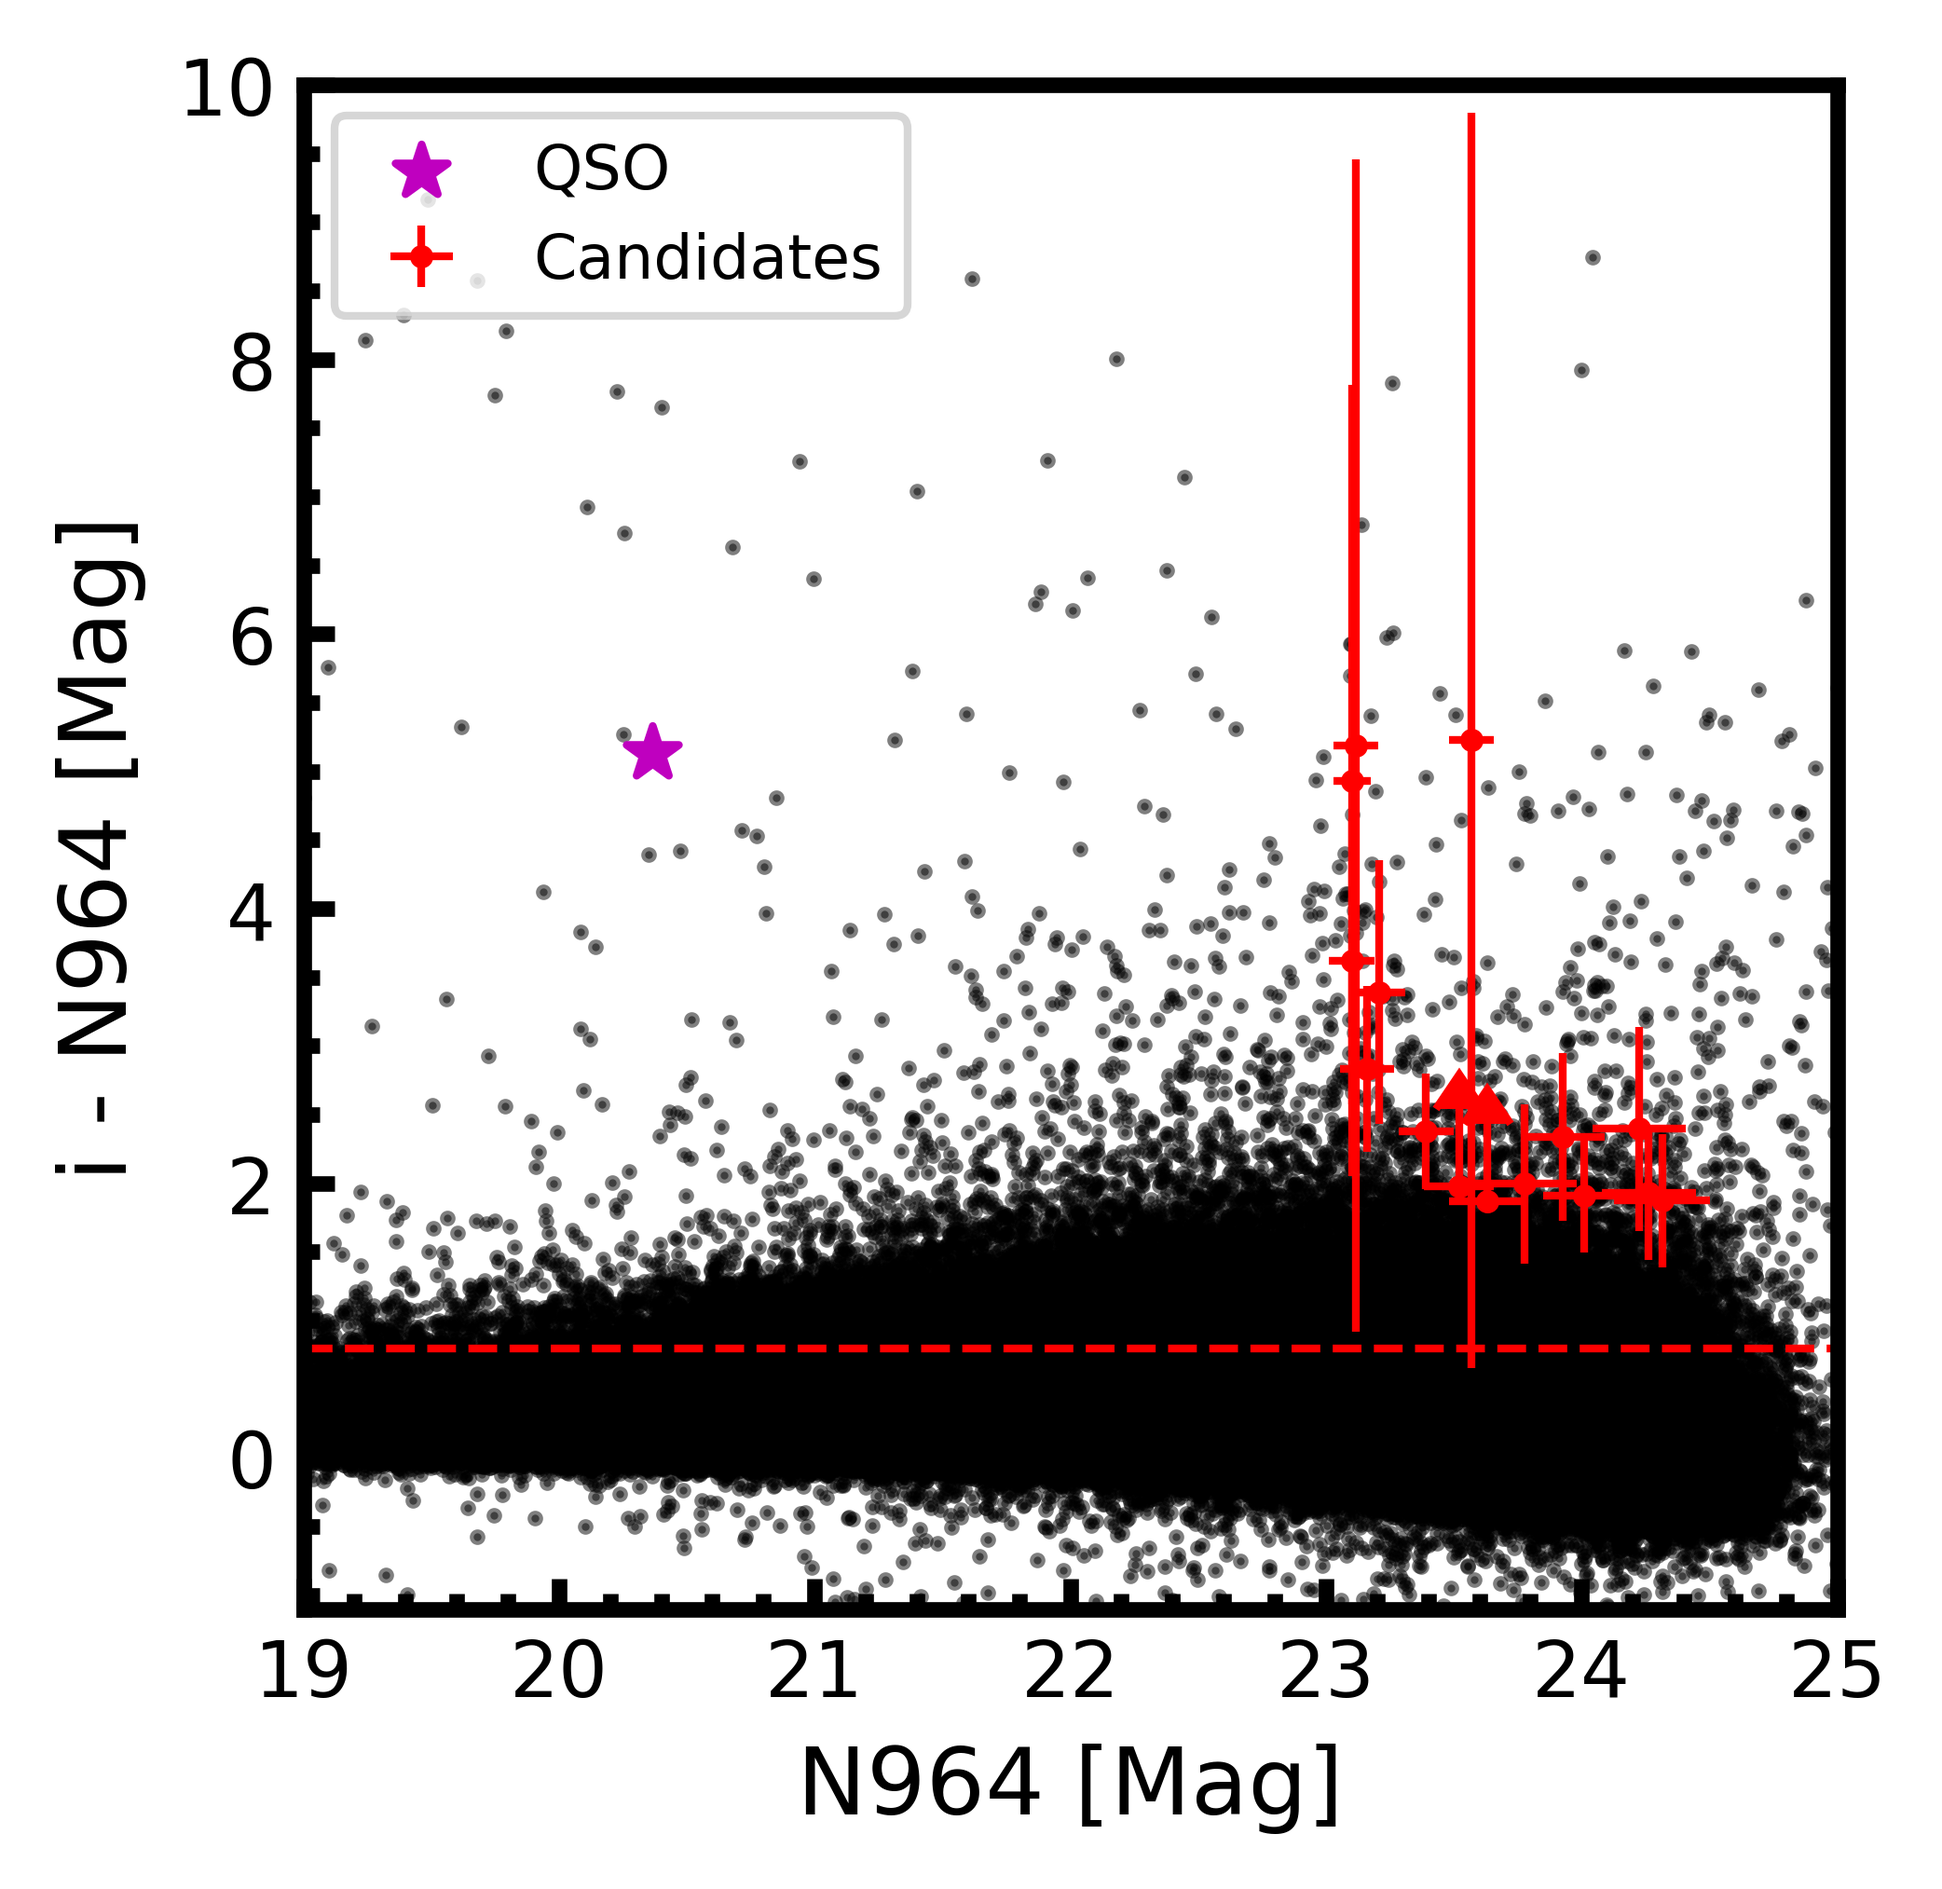
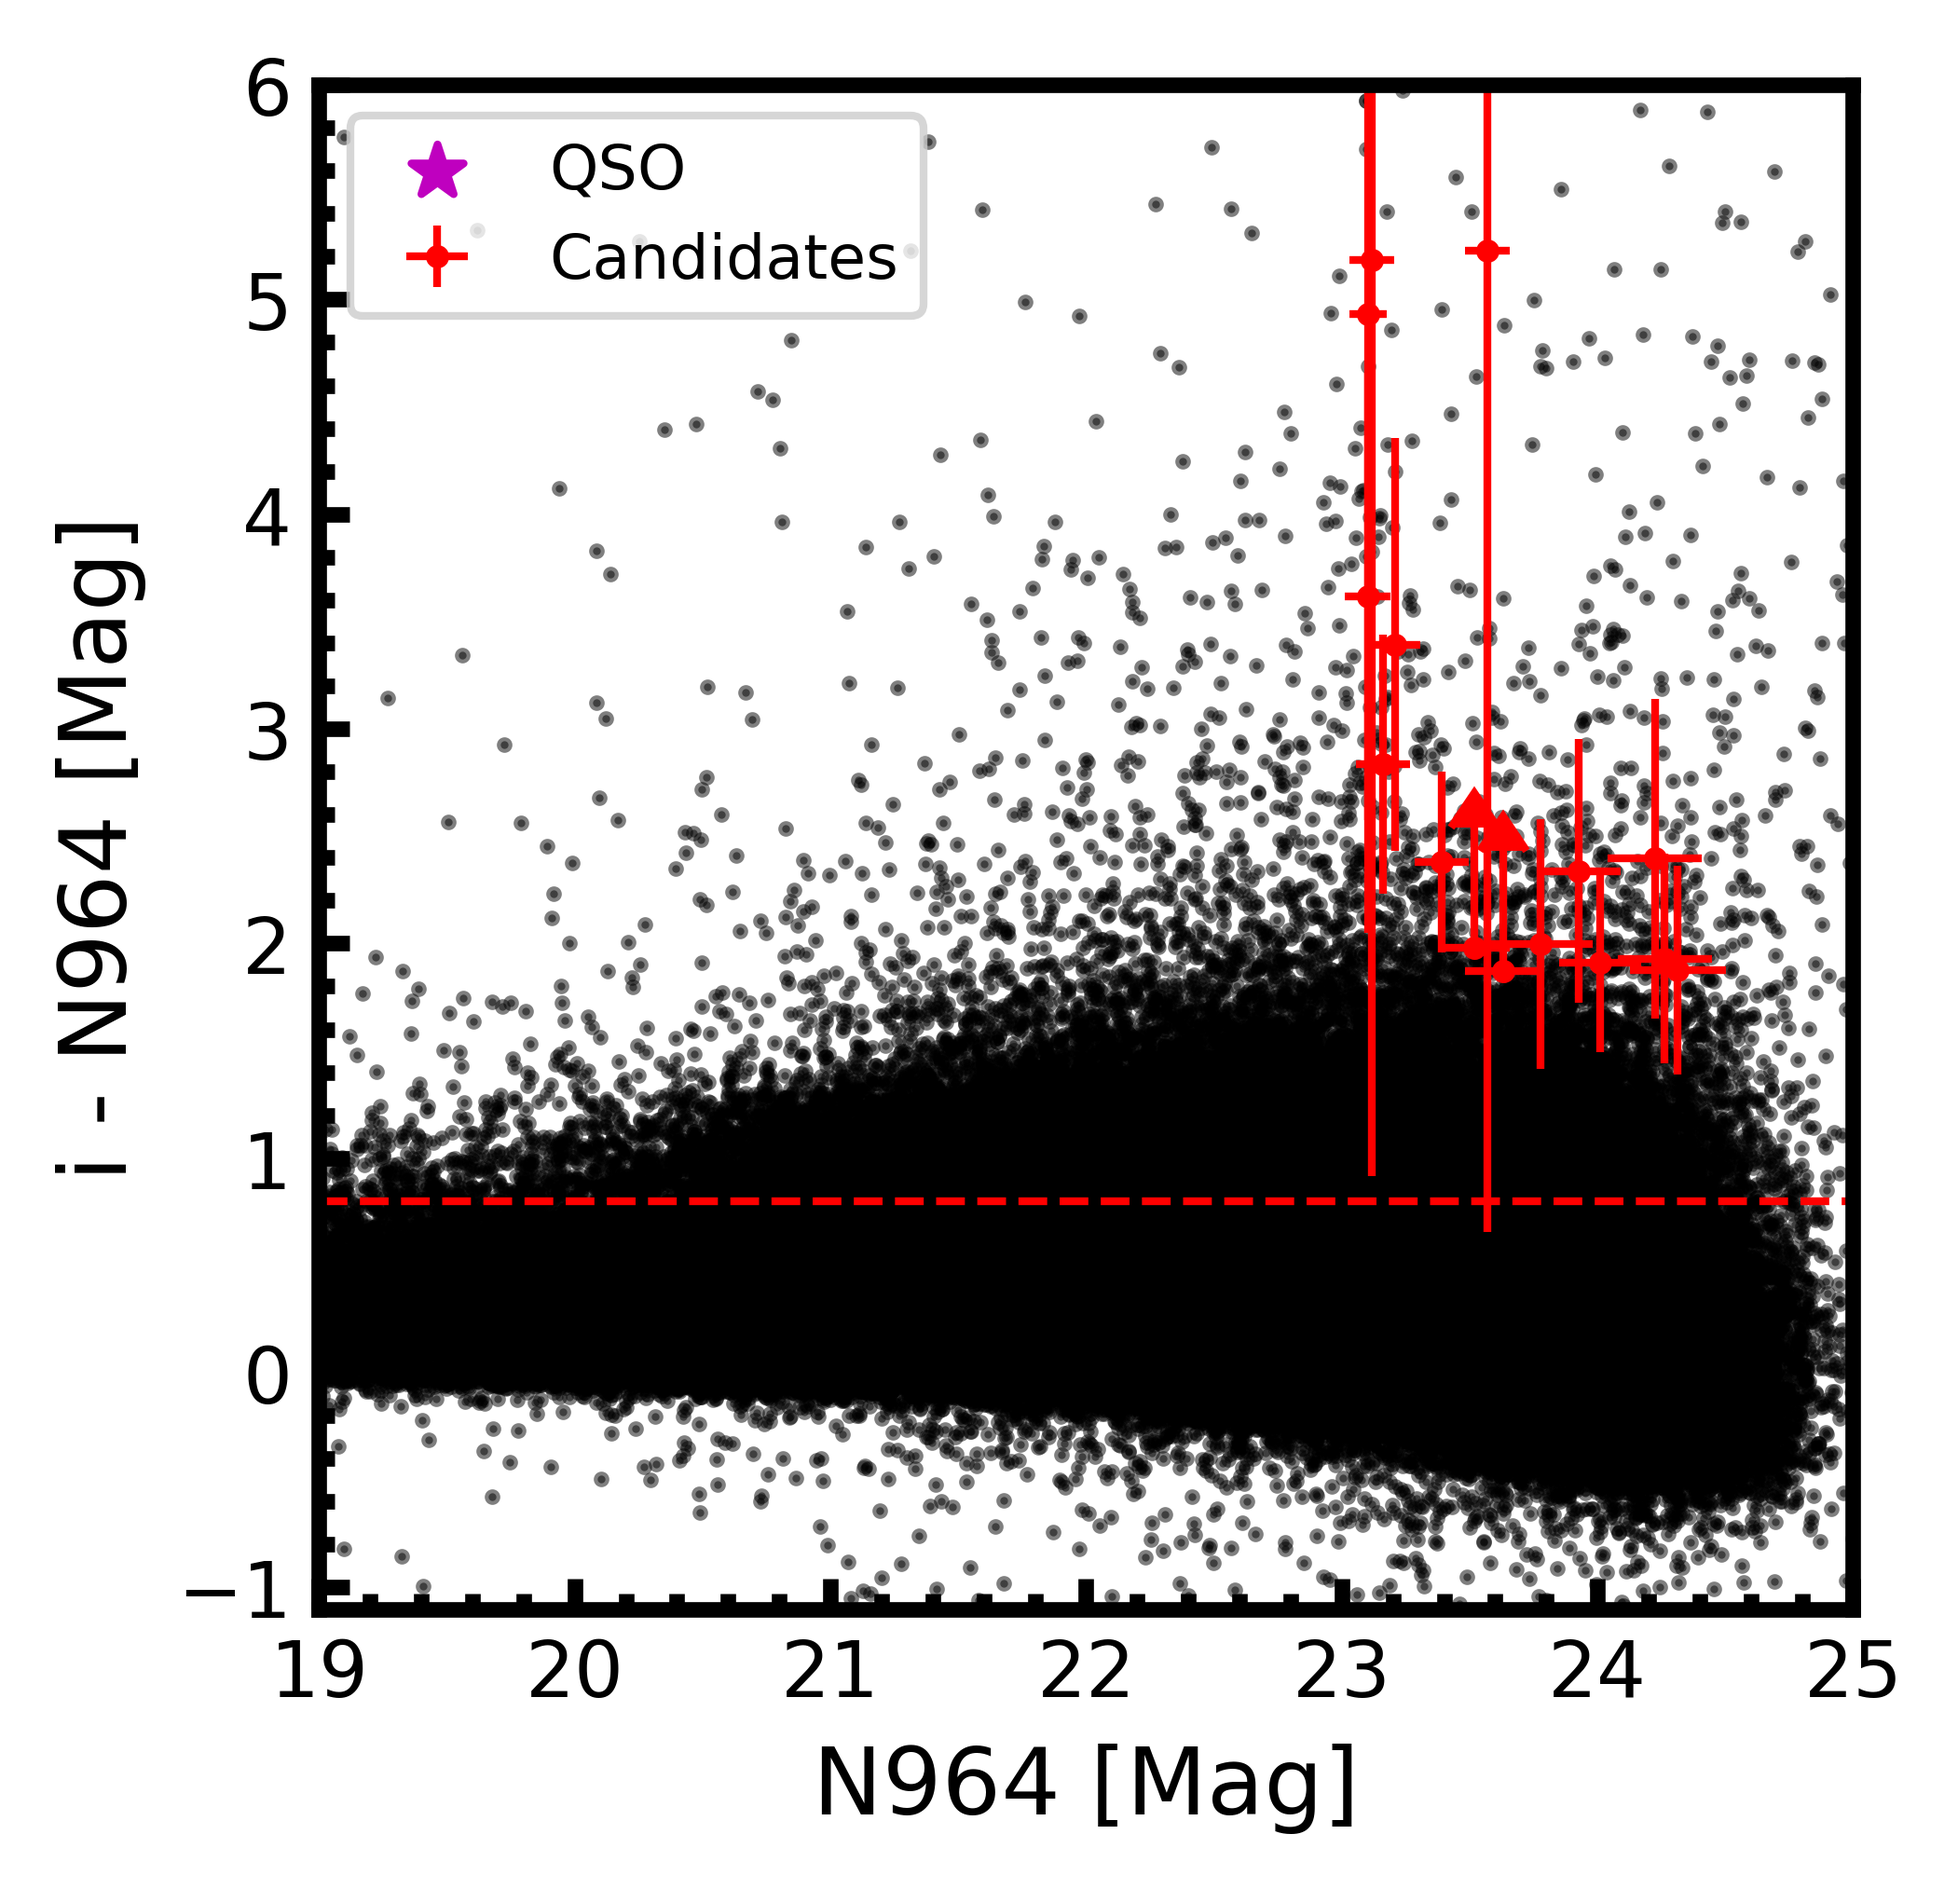
refactored the Hu et al plot

diff --git a/hu_2019_plot.py b/hu_2019_plot.py
@@ -1,12 +1,12 @@
 """Python script to display the DECAM filters."""
 
+from dataclasses import dataclass
 import pylab as plt
 import numpy as np
 import matplotlib as mpl
 from astropy.coordinates import SkyCoord
 import astropy.units as u
 import plotting
-import postage_stamps as ps
 
 mpl.rcParams.update({'font.size': 2})
 plt.rcParams['font.size'] = 12
@@ -15,126 +15,150 @@ mpl.rc('xtick', labelsize=10)
 mpl.rc('ytick', labelsize=10)
 
 
-def read_in_cats(file_name: str):
+def read_in_cats(filt: str):
     """read in the test cats for DECCAM"""
-    ra, dec, mag, mag_err = np.loadtxt(file_name, unpack=True, usecols=(0, 1, 4, 5))
+    r_a, dec, mag, mag_err = np.loadtxt(FILTERS[filt].file_name, unpack=True, usecols=(0, 1, 4, 5))
     non_detections = np.where(mag == 99)[0]
     detections = np.where(mag != 99)[0]
-    
-    mag[detections] = mag[detections] + MAG_ZPTS[FILES[file_name]]
+
+    mag[detections] = mag[detections] + FILTERS[filt].zpt
     mag_err[non_detections] = (2.5/np.log(10)) / 2 #factor of two is just for aesthitics
-    
-    return ra, dec , mag, mag_err
 
-MAG_ZPTS = {
-    'z': 30.538,
-    'n964': 28.97,
-    'i': 30.870,
-}
-
-LIMITING_MAGS = {
-    '../correct_stacks/N964/z.cat': 25.5,
-    '../correct_stacks/N964/i.cat': 25.5,
-    '../correct_stacks/N964/n964.cat': 25.0
-}
-
-FILES = {
-    '../correct_stacks/N964/z.cat': 'z',
-    '../correct_stacks/N964/n964.cat': 'n964',
-    '../correct_stacks/N964/i.cat': 'i'
-}
-
-if __name__ == '__main__':
-    Z_FILE = '../correct_stacks/N964/z.cat'
-    N_FILE = '../correct_stacks/N964/n964.cat'
-    I_FILE = '../correct_stacks/N964/i.cat'
-    RA_QSO = (23 + (48/60) + (33.34/3600)) * (360/24)
-    DEC_QSO = (30 + (54/60) + (10.0/3600)) * -1
-    CANDIDATE_FILE = 'candidates.txt'
-
-    candidates_ra, candidates_dec = np.loadtxt(CANDIDATE_FILE, usecols=(1,2), unpack=True)
-
-    i_ra, i_dec, i_mag, i_mag_err = read_in_cats(I_FILE)
-    z_ra, z_dec, z_mag, z_mag_err = read_in_cats(Z_FILE)
-    n_ra, n_dec, n_mag, n_mag_err = read_in_cats(N_FILE)
-
-    catalog = SkyCoord(ra = n_ra*u.deg, dec = n_dec*u.deg)
-    c = SkyCoord(ra = RA_QSO*u.deg, dec = DEC_QSO*u.deg)
-    idx, d2d, _ = c.match_to_catalog_sky(catalog)
-
-    c_candidates = SkyCoord(ra = candidates_ra*u.deg, dec = candidates_dec*u.deg)
-    idx_candidates, d2d_candidates, _ = c_candidates.match_to_catalog_sky(catalog)
-
-    non_detections_z = np.where(z_mag[idx_candidates] == 99)[0]
-    non_detections_i = np.where(i_mag[idx_candidates] == 99)[0]
+    return r_a, dec , mag, mag_err
 
 
-    # Making the Hu plots
-    plotting.start_plot('N964 [Mag]', 'z - N964 [Mag]')
-    plt.scatter(n_mag, z_mag - n_mag, s=1, color='k', alpha=0.5)
-    plt.scatter(n_mag[idx], z_mag[idx] - n_mag[idx], marker='*', s=50, color='m', label='QSO')
-    plt.errorbar(n_mag[idx_candidates], z_mag[idx_candidates] - n_mag[idx_candidates],
-                  color='r', xerr=n_mag_err[idx_candidates],
-                yerr=np.hypot(n_mag_err[idx_candidates], z_mag_err[idx_candidates]), fmt='o', ms=2, elinewidth=1, label = 'Candidates')
+@dataclass
+class Filter:
+    """Stores the filter information."""
+    zpt: float
+    limiting_mag: float
+    file_name: str
+    hu_snr_limit: float
 
-    plt.errorbar(n_mag[idx_candidates][non_detections_z], LIMITING_MAGS[Z_FILE] - n_mag[idx_candidates][non_detections_z],
-                  color='r', xerr=n_mag_err[idx_candidates][non_detections_z],
-                yerr=np.hypot(n_mag_err[idx_candidates][non_detections_z], z_mag_err[idx_candidates][non_detections_z]),
-                fmt='o', ms=2, elinewidth=1, lolims=True)
+
+@dataclass
+class Quasar:
+    """All the magnitude information"""
+    n964_mag: float
+    z_mag: float
+    i_mag: float
+
+    def color(self, filt: str):
+        """Determines the color depending on the filter."""
+        if filt == 'i':
+            color = self.i_mag - self.n964_mag
+        elif filt == 'z':
+            color = self.z_mag - self.n964_mag
+        else:
+            raise ValueError('Filter must be either "z" or "i".')
+        return color
+
+
+@dataclass
+class ErrorPlotValues:
+    """x,y,xerr,yerr values for a errobar plot"""
+    x_data: np.array
+    y_data: np.array
+    x_err: np.array
+    y_err: np.array
+
+
+@dataclass
+class MagValues:
+    """Storing all the information for the hu plot"""
+    narrow_mag: np.array
+    broad_mag: np.array
+    narrow_err: np.array
+    broad_err: np.array
+    idx_gals: np.array
+    non_detections: np.array
+
+    @property
+    def color(self):
+        """Calculates the color"""
+        return self.broad_mag - self.narrow_mag
+
+    @property
+    def color_err(self):
+        """Calculates the error of the color"""
+        return np.hypot(self.narrow_err, self.broad_err)
+
+    @property
+    def gals(self):
+        """Returns a ErrorPlotValues object for all the candidates"""
+        return ErrorPlotValues(self.narrow_mag[self.idx_gals], self.color[self.idx_gals],
+                               self.narrow_err[self.idx_gals], self.color_err[self.idx_gals])
+
+    @property
+    def non_detects(self):
+        """Determines the values for a errorbar plot of the non detectionss"""
+        return ErrorPlotValues(self.narrow_mag[self.idx_gals][self.non_detections],
+                               self.color[self.idx_gals][self.non_detections],
+                               self.narrow_err[self.idx_gals][self.non_detections],
+                               self.color_err[self.idx_gals][self.non_detections])
+
+
+@dataclass
+class PlotSettings:
+    """settings for the plots"""
+    x_label: str
+    y_label: str
+    outfile: str
+
+
+def plot_hu_plot(conf:MagValues, qso:Quasar, plot_conf: PlotSettings, filt:str):
+    """makes the hu plot specifically"""
+    plotting.start_plot(plot_conf.x_label, plot_conf.y_label)
+    plt.scatter(conf.narrow_mag, conf.color, s=1, color='k', alpha=0.5)
+    plt.scatter(qso.n964_mag, qso.color(filt), marker='*', s=50, color='m', label='QSO')
+
+    plt.errorbar(conf.gals.x_data, conf.gals.y_data, color='r',
+                xerr=conf.gals.x_err, yerr=conf.gals.y_err,
+                fmt='o', ms=2, elinewidth=1, label = 'Candidates')
+
+    plt.errorbar(conf.non_detects.x_data,
+                FILTERS[filt].limiting_mag - conf.non_detects.x_data, color='r',
+                xerr=conf.non_detects.x_err, yerr=conf.non_detects.y_err, fmt='o', ms=2,
+                elinewidth=1, lolims=True)
+
     plt.xlim(19, 25)
     plt.ylim(-1.1,6)
-    plt.axhline(1.9, color='r', lw=1, ls='--')
+    plt.axhline(FILTERS[filt].hu_snr_limit, color='r', lw=1, ls='--')
     plt.legend(fontsize=8, loc=2)
-    plotting.end_plot('plots/hu_plot_z.png')
-
-    plotting.start_plot('N964 [Mag]', 'i - N964 [Mag]')
-    plt.scatter(n_mag, i_mag - n_mag, s=1, color='k', alpha=0.5)
-    plt.scatter(n_mag[idx], LIMITING_MAGS[I_FILE] - n_mag[idx], marker='*', s=50, color='m', label = 'QSO')
-    plt.errorbar(n_mag[idx_candidates], i_mag[idx_candidates] - n_mag[idx_candidates],
-                  color='r', xerr=n_mag_err[idx_candidates],
-                yerr=np.hypot(n_mag_err[idx_candidates], i_mag_err[idx_candidates]), fmt='o', ms=2, elinewidth=1, label='Candidates')
-
-    plt.errorbar(n_mag[idx_candidates][non_detections_i], LIMITING_MAGS[I_FILE] - n_mag[idx_candidates][non_detections_i],
-                  color='r', xerr=n_mag_err[idx_candidates][non_detections_i],
-                yerr=np.hypot(n_mag_err[idx_candidates][non_detections_i], i_mag_err[idx_candidates][non_detections_i]),
-                fmt='o', ms=2, elinewidth=1, lolims=True)
-
-    #plt.xlim(12.5, 28)
-    plt.xlim(19, 25)
-    plt.ylim(-1.1,10)
-    plt.axhline(0.8, color='r', lw=1, ls='--')
-    plt.legend(fontsize=8, loc=2)
-    plotting.end_plot('plots/hu_plot_i.png')
-    
-
-    # Interactive plot that we can click and see what the galaxies look like.
-    '''fig, ax = plt.subplots()
-    coll = ax.scatter(n_mag, z_mag - n_mag, s=1, color='k', alpha=0.5, picker = True)
-    ax.scatter(n_mag[idx], z_mag[idx] - n_mag[idx], marker='*', s=100, color='m')
-    plt.scatter(n_mag[idx_candidates], z_mag[idx_candidates] - n_mag[idx_candidates], s = 20, color='r')
-    ax.set_xlim(12.5, 28)
-    ax.set_ylim(-2.4, 10)
-
-    plt.axhline(1.9, color='r', lw=1)
-
-    def on_pick(event):
-        """what to do when clicking the button"""
-        print('Position: ', n_ra[event.ind][0], n_dec[event.ind][0])
-        ps.show_stamps(n_ra[event.ind][0], n_dec[event.ind][0])
+    plotting.end_plot(plot_conf.outfile)
 
 
-    fig.canvas.mpl_connect('pick_event', on_pick)
-    plt.show()'''
+FILTERS = {
+    'z': Filter(30.538, 25.5, '../correct_stacks/N964/z.cat', 1.9),
+    'n964': Filter(28.97, 25.0, '../correct_stacks/N964/n964.cat', 0),
+    'i': Filter(30.870, 25.5, '../correct_stacks/N964/i.cat', 0.8)
+}
 
-    # plotting the magnitude values of the quasar itself.
-    # comparison to the theoretical values from synphot
-    '''print(i_ra[idx], i_dec[idx])
-    print(d2d)
-    print(RA_QSO, DEC_QSO)
-    print('i: ', i_mag[idx])
-    print('z: ', z_mag[idx])
-    print('n964: ',n_mag[idx])
-    print('--------------')
-    print('i - n964: ', i_mag[idx] - n_mag[idx])
-    print('i - z: ', i_mag[idx] - z_mag[idx])
-    print('z - n964: ', z_mag[idx] - n_mag[idx])'''
+RA_QSO = (23 + (48/60) + (33.34/3600)) * (360/24)
+DEC_QSO = (30 + (54/60) + (10.0/3600)) * -1
+
+if __name__ == '__main__':
+    CANDIDATE_FILE = 'candidates.txt'
+
+    i_ra, i_dec, i_mag, i_mag_err = read_in_cats('i')
+    z_ra, z_dec, z_mag, z_mag_err = read_in_cats('z')
+    n_ra, n_dec, n_mag, n_mag_err = read_in_cats('n964')
+
+    catalog = SkyCoord(ra = n_ra*u.deg, dec = n_dec*u.deg)
+    c_qso = SkyCoord(ra = RA_QSO*u.deg, dec = DEC_QSO*u.deg)
+    idx, _,  _ = c_qso.match_to_catalog_sky(catalog)
+    our_qso = Quasar(n_mag[idx], z_mag[idx], i_mag[idx])
+
+    gals_ra, gals_dec = np.loadtxt(CANDIDATE_FILE, usecols=(1,2), unpack=True)
+    c_gals = SkyCoord(ra = gals_ra*u.deg, dec = gals_dec*u.deg)
+    idx_gals, d2d_gals, _ = c_gals.match_to_catalog_sky(catalog)
+
+    non_detections_z = np.where(z_mag[idx_gals] == 99)[0]
+    z_mag_settings = MagValues(n_mag, z_mag, n_mag_err, z_mag_err, idx_gals, non_detections_z)
+    z_plot_settings = PlotSettings('N964 [Mag]',  'z - N964 [Mag]', 'plots/hu_plot_z.png')
+    plot_hu_plot(z_mag_settings, our_qso, z_plot_settings, 'z')
+
+    non_detections_i = np.where(i_mag[idx_gals] == 99)[0]
+    i_mag_settings = MagValues(n_mag, i_mag, n_mag_err, i_mag_err, idx_gals, non_detections_i)
+    i_plot_settings = PlotSettings('N964 [Mag]',  'i - N964 [Mag]', 'plots/hu_plot_i.png')
+    plot_hu_plot(i_mag_settings, our_qso, i_plot_settings, 'i')
